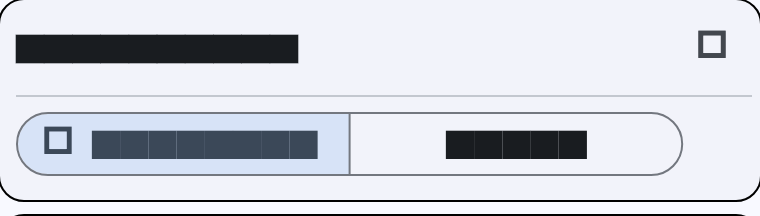
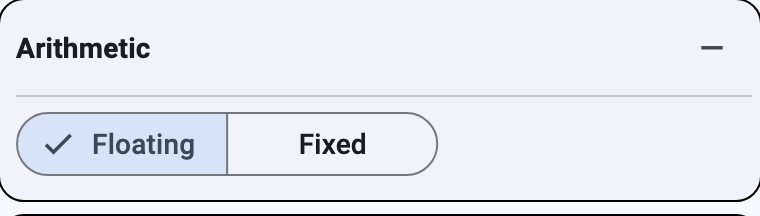
fixing text in diagrams

diff --git a/test/make_docs_test.dart b/test/make_docs_test.dart
@@ -17,12 +17,74 @@ import 'dart:ui' as ui;
 
 import 'package:flutter/material.dart';
 import 'package:flutter/rendering.dart';
+import 'package:flutter/services.dart';
 import 'package:flutter_test/flutter_test.dart';
 import 'package:remez/main.dart';
 import 'package:remez/src/controller.dart';
 import 'package:remez/src/plots.dart';
 
 const String _dir = 'docs/images';
+
+/// Load real fonts, so the figures carry words rather than boxes.
+///
+/// `flutter test` substitutes a test font whose every glyph is a filled
+/// rectangle -- deliberately, so that layout goldens do not depend on what is
+/// installed. That is right for a layout golden and useless for documentation,
+/// so this registers the Roboto that ships with the SDK under the family the
+/// Material theme actually asks for, plus the icon font.
+///
+/// Returns false when the SDK fonts cannot be found, which the tests report
+/// rather than quietly writing unreadable figures.
+Future<bool> _loadRealFonts() async {
+  final root = Platform.environment['FLUTTER_ROOT'];
+  if (root == null) return false;
+  final dir = Directory('$root/bin/cache/artifacts/material_fonts');
+  if (!dir.existsSync()) return false;
+
+  Future<bool> load(String family, List<String> files) async {
+    final loader = FontLoader(family);
+    var any = false;
+    for (final name in files) {
+      final file = File('${dir.path}/$name');
+      if (!file.existsSync()) continue;
+      loader.addFont(
+          Future.value(ByteData.view(file.readAsBytesSync().buffer)));
+      any = true;
+    }
+    if (any) await loader.load();
+    return any;
+  }
+
+  final text = await load('Roboto',
+      ['Roboto-Regular.ttf', 'Roboto-Medium.ttf', 'Roboto-Bold.ttf']);
+  await load('MaterialIcons', ['MaterialIcons-Regular.otf']);
+  return text && await _loadMonospace();
+}
+
+/// A real monospaced font for the Result panel.
+///
+/// The SDK ships no monospace, and the report is the one place where the
+/// columns only line up because the font is fixed pitch -- substituting Roboto
+/// would produce a figure that renders but misrepresents the panel. So a system
+/// font is used, and its absence is a failure rather than a silent fallback.
+Future<bool> _loadMonospace() async {
+  const candidates = [
+    '/System/Library/Fonts/SFNSMono.ttf',
+    '/System/Library/Fonts/Supplemental/Andale Mono.ttf',
+    '/System/Library/Fonts/Supplemental/Courier New.ttf',
+    '/usr/share/fonts/truetype/dejavu/DejaVuSansMono.ttf',
+    '/usr/share/fonts/TTF/DejaVuSansMono.ttf',
+  ];
+  for (final path in candidates) {
+    final file = File(path);
+    if (!file.existsSync()) continue;
+    final loader = FontLoader('monospace')
+      ..addFont(Future.value(ByteData.view(file.readAsBytesSync().buffer)));
+    await loader.load();
+    return true;
+  }
+  return false;
+}
 
 /// Oversampled, so the figures are readable when a browser scales them down.
 const double _scale = 2.0;
@@ -66,11 +128,19 @@ Future<DesignController> _open(WidgetTester tester,
   await tester.pumpAndSettle();
   final state = tester.state<State<DesignerPage>>(find.byType(DesignerPage));
   // ignore: avoid_dynamic_calls
-  final c = (state as dynamic).controller as DesignController;
-  // A fixed figure in the app bar, so re-running does not rewrite every panel
-  // figure for a timing difference.
-  c.lastDesignTime = const Duration(microseconds: 1234);
-  return c;
+  return (state as dynamic).controller as DesignController;
+}
+
+/// Pin the design time and force the rebuild that shows it.
+///
+/// The Result panel prints how long the design took, which differs on every
+/// run and would rewrite that figure each time. Assigning the field is not
+/// enough: it does not go through `update`, so nothing is notified and the
+/// panel keeps painting the real duration.
+Future<void> _pinTiming(WidgetTester tester, DesignController c) async {
+  c.lastDesignTime = const Duration(microseconds: 12300);
+  tester.element(find.byType(DesignerPage)).markNeedsBuild();
+  await tester.pumpAndSettle();
 }
 
 /// The panel with this title, as a croppable rectangle.
@@ -79,6 +149,12 @@ Finder _panel(String title) =>
 
 void main() {
   final write = autoUpdateGoldenFiles;
+
+  setUpAll(() async {
+    expect(await _loadRealFonts(), isTrue,
+        reason: 'a font was missing, so figures would be drawn in the test '
+            'font and carry filled boxes instead of words');
+  });
 
   testWidgets('the panels', (tester) async {
     final c = await _open(tester);
@@ -97,6 +173,9 @@ void main() {
     await shot('panel-arithmetic', 'Arithmetic');
     await shot('panel-file', 'File');
     await shot('panel-display', 'Display');
+    await _pinTiming(tester, c);
+    expect(find.textContaining('designed in 12.3 ms'), findsWidgets,
+        reason: 'the pinned duration is not what the report is showing');
     await shot('panel-result', 'Result');
 
     // The arithmetic panel only shows the word length and the hardware options

diff --git a/lib/src/design_view.dart b/lib/src/design_view.dart
@@ -95,22 +95,32 @@ class DesignView extends StatelessWidget {
       child: CustomPaint(
         size: Size.infinite,
         painter: _DesignPainter(
-            fir: fir, iir: iir, palette: DesignPalette.of(Theme.of(context))),
+            fir: fir,
+            iir: iir,
+            palette: DesignPalette.of(Theme.of(context)),
+            fontFamily: Theme.of(context).textTheme.bodySmall?.fontFamily),
       ),
     );
   }
 }
 
 class _DesignPainter extends CustomPainter {
-  _DesignPainter({required this.fir, required this.iir, required this.palette});
+  _DesignPainter(
+      {required this.fir,
+      required this.iir,
+      required this.palette,
+      required this.fontFamily});
 
   final fc.RemezResult? fir;
   final ic.IIRResult? iir;
   final DesignPalette palette;
 
+  /// Named explicitly; a painter inherits no text style of its own.
+  final String? fontFamily;
+
   @override
   void paint(Canvas canvas, Size size) {
-    final c = _Sheet(canvas, size, palette);
+    final c = _Sheet(canvas, size, palette, fontFamily);
     if (iir != null) {
       _drawIir(c, iir!);
     } else if (fir != null) {
@@ -120,7 +130,10 @@ class _DesignPainter extends CustomPainter {
 
   @override
   bool shouldRepaint(covariant _DesignPainter old) =>
-      old.fir != fir || old.iir != iir || old.palette != palette;
+      old.fir != fir ||
+      old.iir != iir ||
+      old.palette != palette ||
+      old.fontFamily != fontFamily;
 }
 
 /// A rectangle of the unit sheet, with y running *up* from [y0].
@@ -141,10 +154,11 @@ class _Box {
 
 /// The drawing surface: a unit box mapped onto the canvas, plus the symbols.
 class _Sheet {
-  _Sheet(this.canvas, this.size, this.palette);
+  _Sheet(this.canvas, this.size, this.palette, this.fontFamily);
   final Canvas canvas;
   final Size size;
   final DesignPalette palette;
+  final String? fontFamily;
 
   Offset at(double u, double v) => Offset(u * size.width, (1 - v) * size.height);
 
@@ -301,7 +315,9 @@ class _Sheet {
   TextPainter _layout(String value, double fontSize, Color colour) =>
       TextPainter(
         text: TextSpan(
-            text: value, style: TextStyle(color: colour, fontSize: fontSize)),
+            text: value,
+            style: TextStyle(
+                color: colour, fontSize: fontSize, fontFamily: fontFamily)),
         textDirection: TextDirection.ltr,
         textAlign: TextAlign.center,
       )..layout();

diff --git a/lib/src/plots.dart b/lib/src/plots.dart
@@ -134,6 +134,7 @@ class LinePlot extends StatelessWidget {
                 xRange: xRange,
                 yRange: yRange,
                 empty: empty,
+                fontFamily: theme.textTheme.bodySmall?.fontFamily,
                 foreground: theme.colorScheme.onSurface,
                 grid: theme.colorScheme.onSurface.withValues(alpha: 0.14),
               ),
@@ -157,6 +158,7 @@ class _PlotPainter extends CustomPainter {
     required this.xRange,
     required this.yRange,
     required this.empty,
+    required this.fontFamily,
     required this.foreground,
     required this.grid,
   });
@@ -171,6 +173,10 @@ class _PlotPainter extends CustomPainter {
   final (double, double)? xRange;
   final (double, double)? yRange;
   final String? empty;
+
+  /// The theme's font, named explicitly: a painter builds its own spans, so it
+  /// inherits nothing and would otherwise get the platform default.
+  final String? fontFamily;
   final Color foreground;
   final Color grid;
 
@@ -342,6 +348,7 @@ class _PlotPainter extends CustomPainter {
           color: colour ??
               (muted ? foreground.withValues(alpha: 0.7) : foreground),
           fontSize: 10,
+          fontFamily: fontFamily,
           fontWeight: colour == null ? FontWeight.normal : FontWeight.w600,
         ),
       ),

diff --git a/docs/tutorial.md b/docs/tutorial.md
@@ -15,7 +15,9 @@ Two families are on offer:
 
 Every figure below is generated from the program itself by
 `test/make_docs_test.dart`, so if the interface changes and this document is not
-regenerated, the tests notice.
+regenerated, the tests notice. It loads real fonts before rendering: `flutter
+test` normally substitutes a font whose every glyph is a filled rectangle,
+which is right for a layout golden and useless for a screenshot.
 
 ---
 
